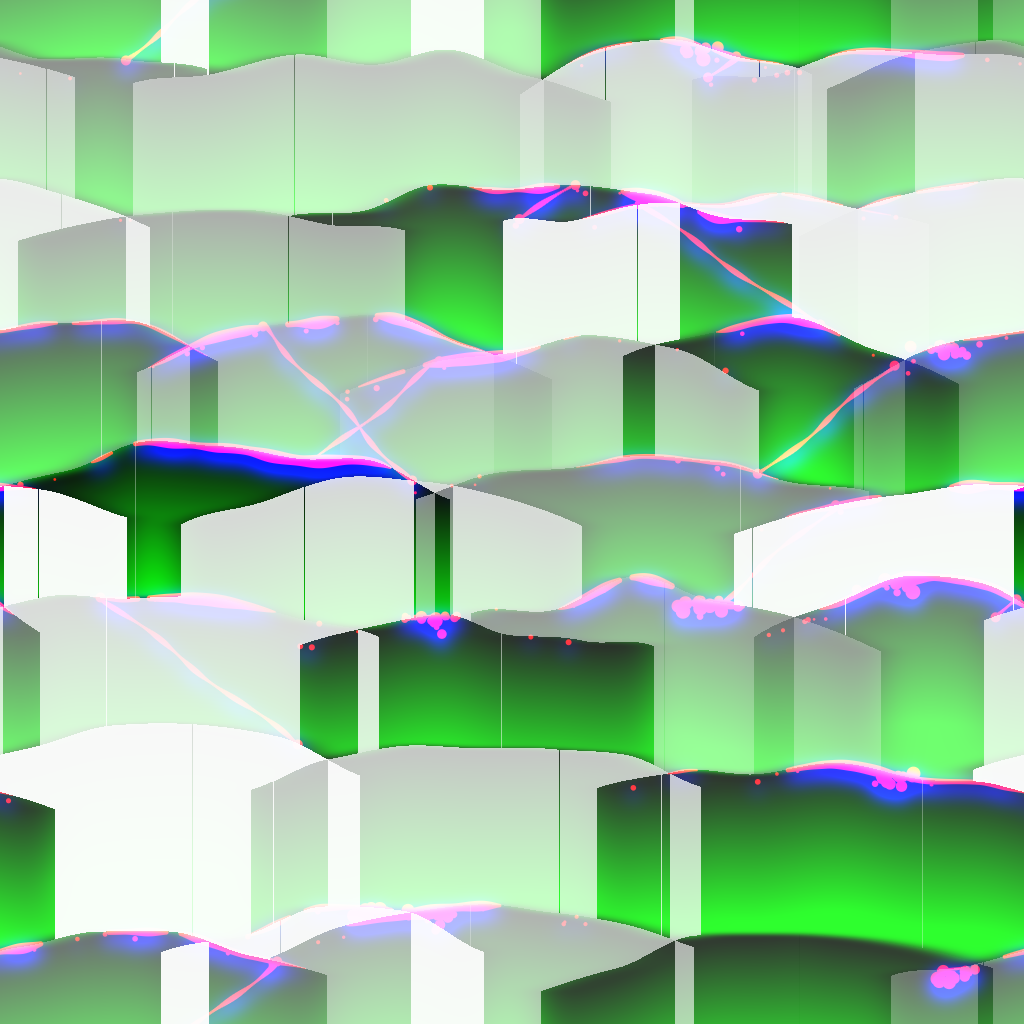
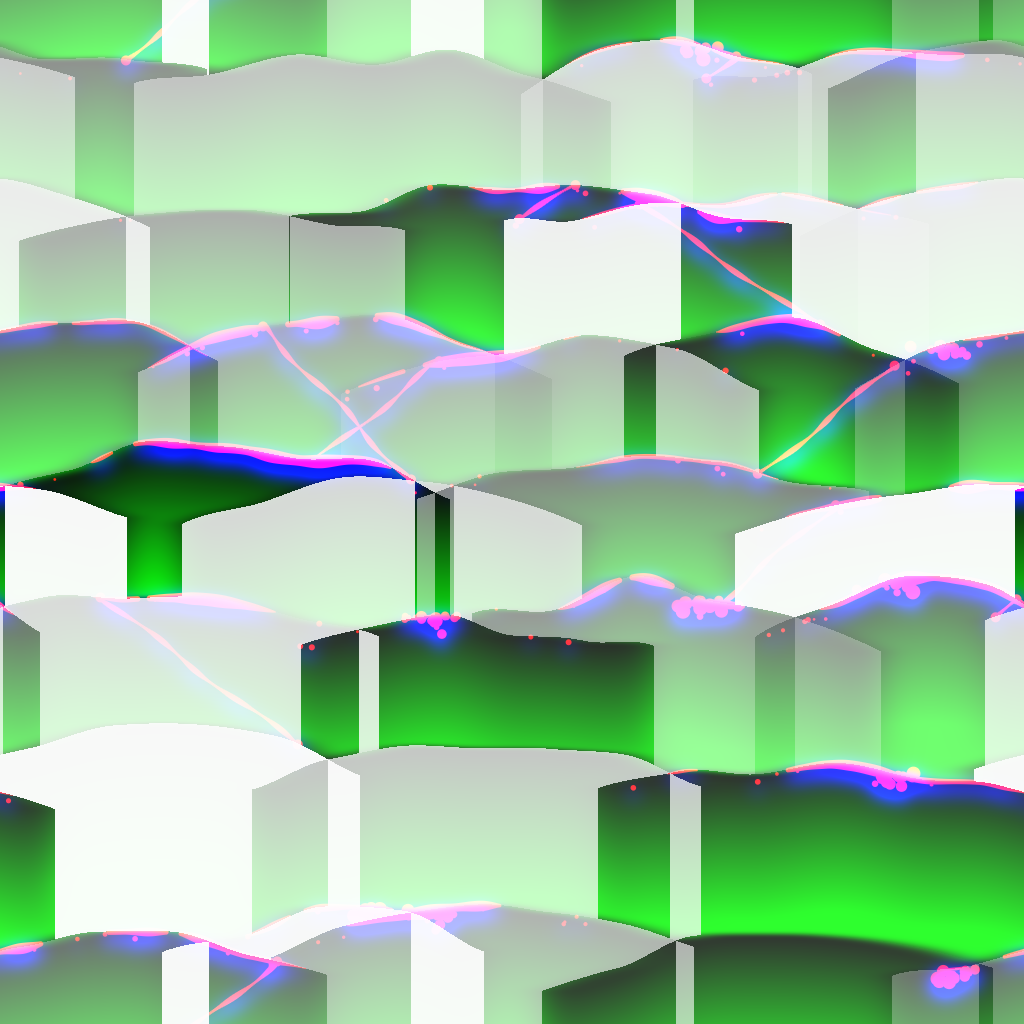
Wave lattice: fill every column a crest spans
Sampling along each crest skipped some pixel columns, which kept another
crest's id and face depth - dozens of 1-px lines through the tile that
cut and shrank the whitecap events. Fill every whole column the crest
spans, interpolating its height, and regenerate the tile.

Claude-Session: https://claude.ai/code/session_019kvEyqLybdndbxmuVgGSw3

diff --git a/tools/make_wave_lattice.py b/tools/make_wave_lattice.py
@@ -51,9 +51,13 @@ for r in range(ROWS):
         wob = (noise1d(len(s), 70) - 0.5) * 0.16 * row_h
         arc_v = vbase - arch * 4 * s * (1 - s) + tilt * (s - 0.5) + wob
         arc_u = u + s * length
-        # the face below this crest: distance down (in v) to each pixel, wrapped
-        cols = np.floor(arc_u).astype(int) % N
-        d = (vv - arc_v[None, :]) % N
+        # the face below this crest: distance down (in v) to each pixel, wrapped - for every
+        # whole column the crest spans (sampling along the crest skipped some, and a skipped
+        # column kept another crest's id: a hard line through each whitecap)
+        col_u = np.arange(int(np.ceil(arc_u[0])), int(np.floor(arc_u[-1])) + 1)
+        col_v = np.interp(col_u, arc_u, arc_v)
+        cols = col_u % N
+        d = (vv - col_v[None, :]) % N
         crest_id = rng.uniform(0.02, 0.98)
         closer = d < face[:, cols]
         face[:, cols] = np.where(closer, d, face[:, cols])
